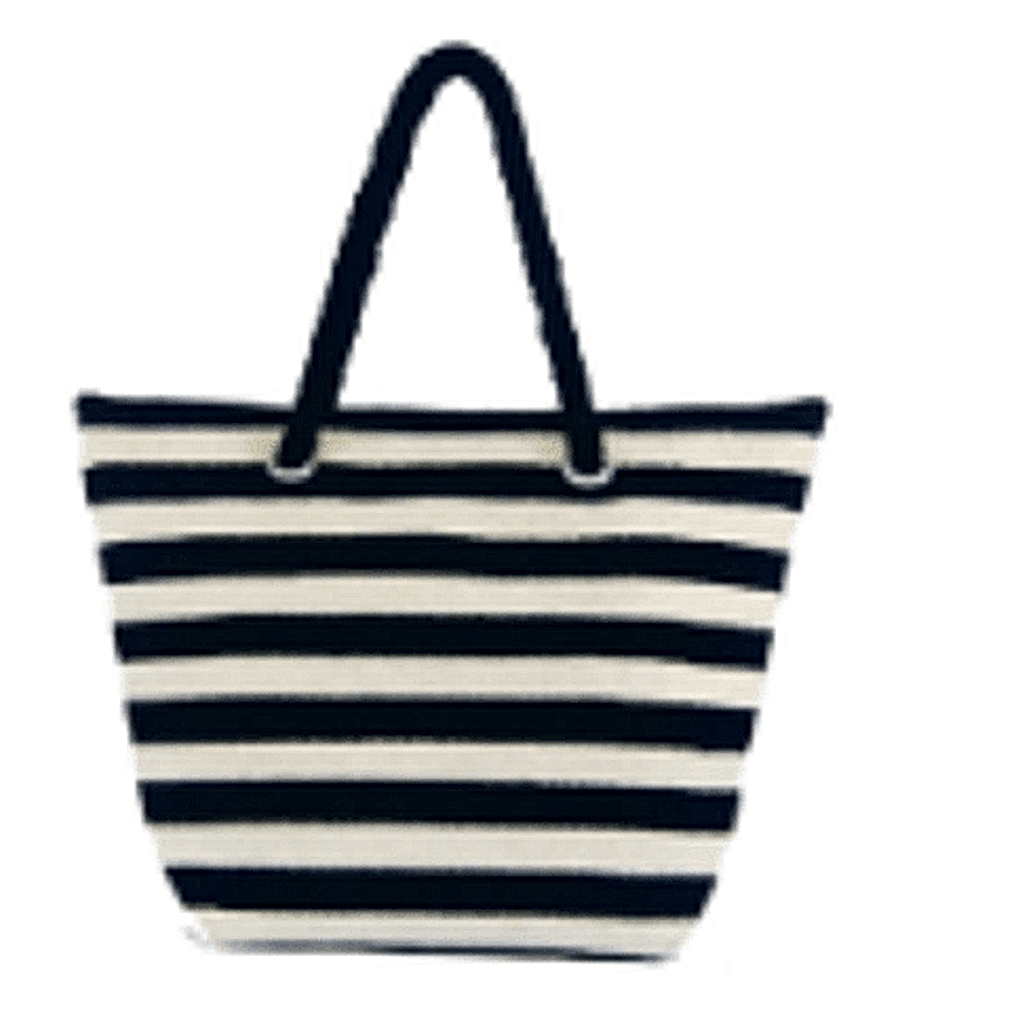
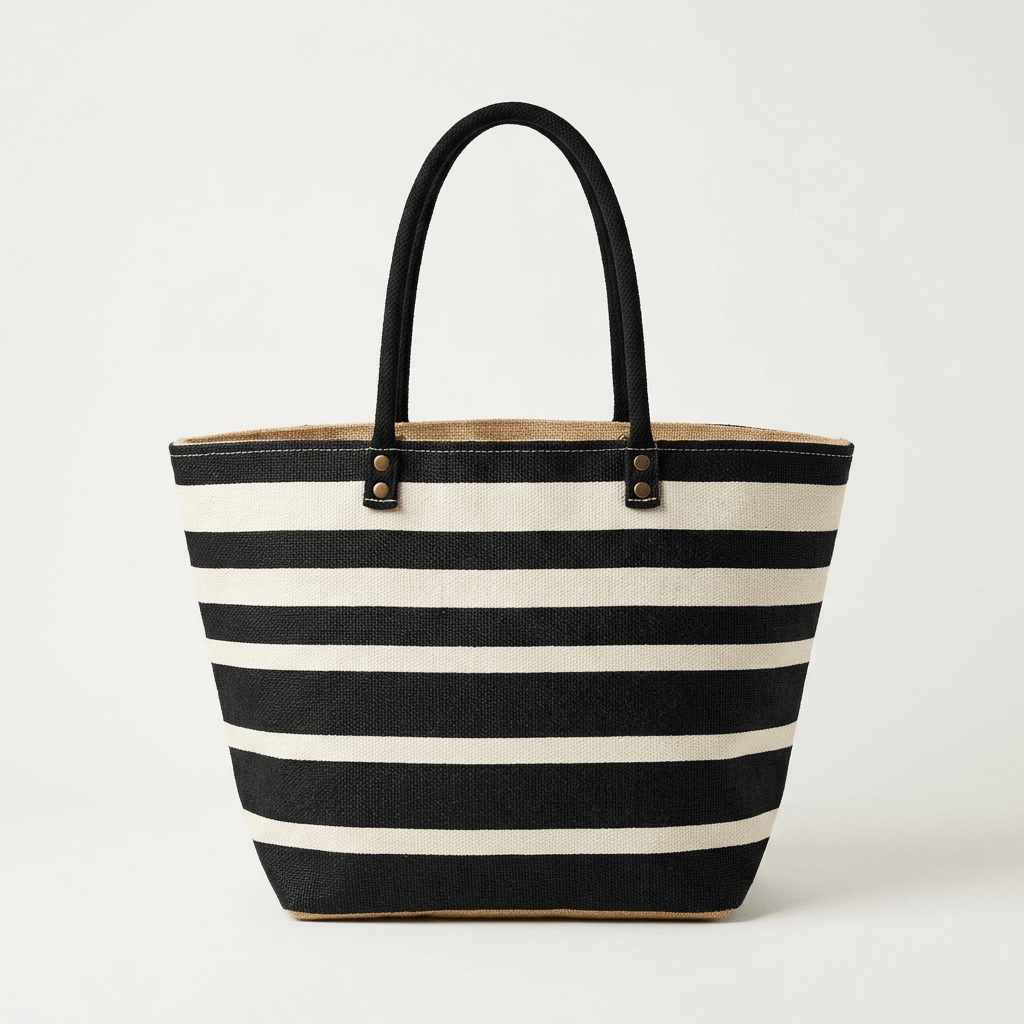
Add 28 authentic Jute Bag products with high-resolution images, specifications, and D1 database sync

diff --git a/src/data/products.ts b/src/data/products.ts
@@ -4399,8 +4399,8 @@ export const PRODUCTS: ProductItem[] = [
     categoryName: "Jute",
     categorySlug: "jute",
     subCategory: "bags",
-    image: "/products/bjb_06.png",
-    galleryImages: ["/products/bjb_06.png"],
+    image: "/products/bjb_06_new.jpg",
+    galleryImages: ["/products/bjb_06_new.jpg", "/products/bjb_06_hd.jpg"],
     description: "Sustainable textured eco-bag woven from upcycled cotton-jhuta and natural golden jute with vertical webbing strap handles.",
     longDescription: {
           "overview": "The Eco-Textured Jute-Jhuta Blend Shopper (Art No: BJB-06) is masterfully handcrafted from 60% Jute, 35% Jhuta Recycled Fiber, 5% Cotton. Designed for international eco-fashion retailers, lifestyle brands, departmental stores, and green consumer boutiques.",
@@ -4456,8 +4456,8 @@ export const PRODUCTS: ProductItem[] = [
     categoryName: "Jute",
     categorySlug: "jute",
     subCategory: "bags",
-    image: "/products/bjb_15.png",
-    galleryImages: ["/products/bjb_15.png"],
+    image: "/products/bjb_15_new.jpg",
+    galleryImages: ["/products/bjb_15_new.jpg", "/products/bjb_15_hd.jpg"],
     description: "Chic cylindrical bucket bag crafted from off-white coiled rope featuring vibrant scarlet red vertical stripes and red handles.",
     longDescription: {
           "overview": "The Candy Cane Red Striped Coiled Jute Bag (Art No: BJB-15) is masterfully handcrafted from 100% Natural Jute. Designed for international eco-fashion retailers, lifestyle brands, departmental stores, and green consumer boutiques.",
@@ -4513,8 +4513,8 @@ export const PRODUCTS: ProductItem[] = [
     categoryName: "Jute",
     categorySlug: "jute",
     subCategory: "bags",
-    image: "/products/bjb_16.png",
-    galleryImages: ["/products/bjb_16.png"],
+    image: "/products/bjb_16_new.jpg",
+    galleryImages: ["/products/bjb_16_new.jpg", "/products/bjb_16_hd.jpg"],
     description: "Timeless horizontal striped tote bag in alternating black and cream white jute bands with sleek black rope shoulder straps.",
     longDescription: {
           "overview": "The Classic Monochrome Striped Jute Tote (Art No: BJB-16) is masterfully handcrafted from 100% Natural Jute. Designed for international eco-fashion retailers, lifestyle brands, departmental stores, and green consumer boutiques.",
@@ -4570,8 +4570,8 @@ export const PRODUCTS: ProductItem[] = [
     categoryName: "Jute",
     categorySlug: "jute",
     subCategory: "bags",
-    image: "/products/bjb_25.png",
-    galleryImages: ["/products/bjb_25.png"],
+    image: "/products/bjb_25_new.jpg",
+    galleryImages: ["/products/bjb_25_new.jpg", "/products/bjb_25_hd.jpg"],
     description: "Expansive boat-style woven market basket bag crafted from 100% untreated golden jute with thick vertical support handles.",
     longDescription: {
           "overview": "The Wide Natural Golden Jute Basket Tote (Art No: BJB-25) is masterfully handcrafted from 100% Natural Jute. Designed for international eco-fashion retailers, lifestyle brands, departmental stores, and green consumer boutiques.",
@@ -7047,10 +7047,8 @@ export const PRODUCTS: ProductItem[] = [
     categoryName: 'Jute',
     categorySlug: 'jute',
     subCategory: 'bags',
-    image: '/products/gfc_sb_011.png',
-    galleryImages: [
-      '/products/gfc_sb_011.png'
-    ],
+    image: '/products/gfc_sb_011_new.jpg',
+    galleryImages: ['/products/gfc_sb_011_new.jpg', '/products/gfc_sb_011_hd.jpg'],
     description: 'Heavy-duty 100% golden jute shopping tote bag with inner LDPE lamination and padded cotton rope handles.',
     longDescription: {
       overview: 'The golden fiber eco alternative to plastic bags. Designed with water-resistant lamination inside, expanding side gusset, and comfortable padded handles for retail branding and supermarket shopping.',
